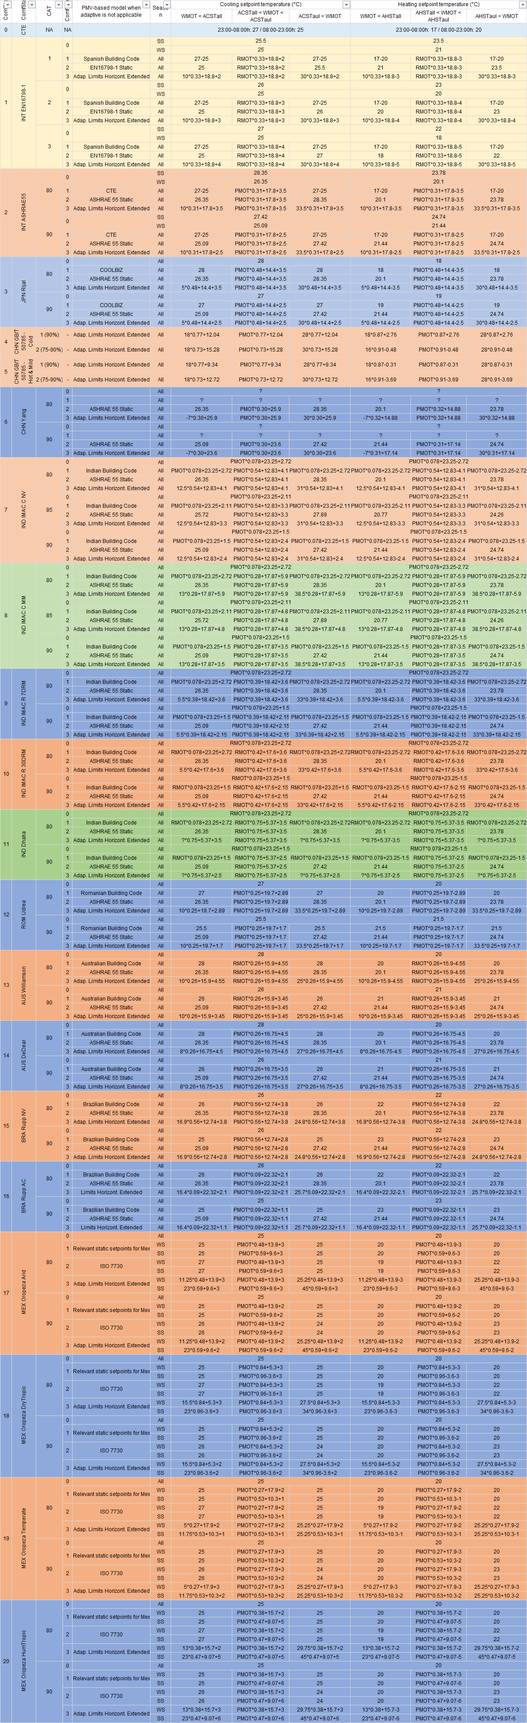
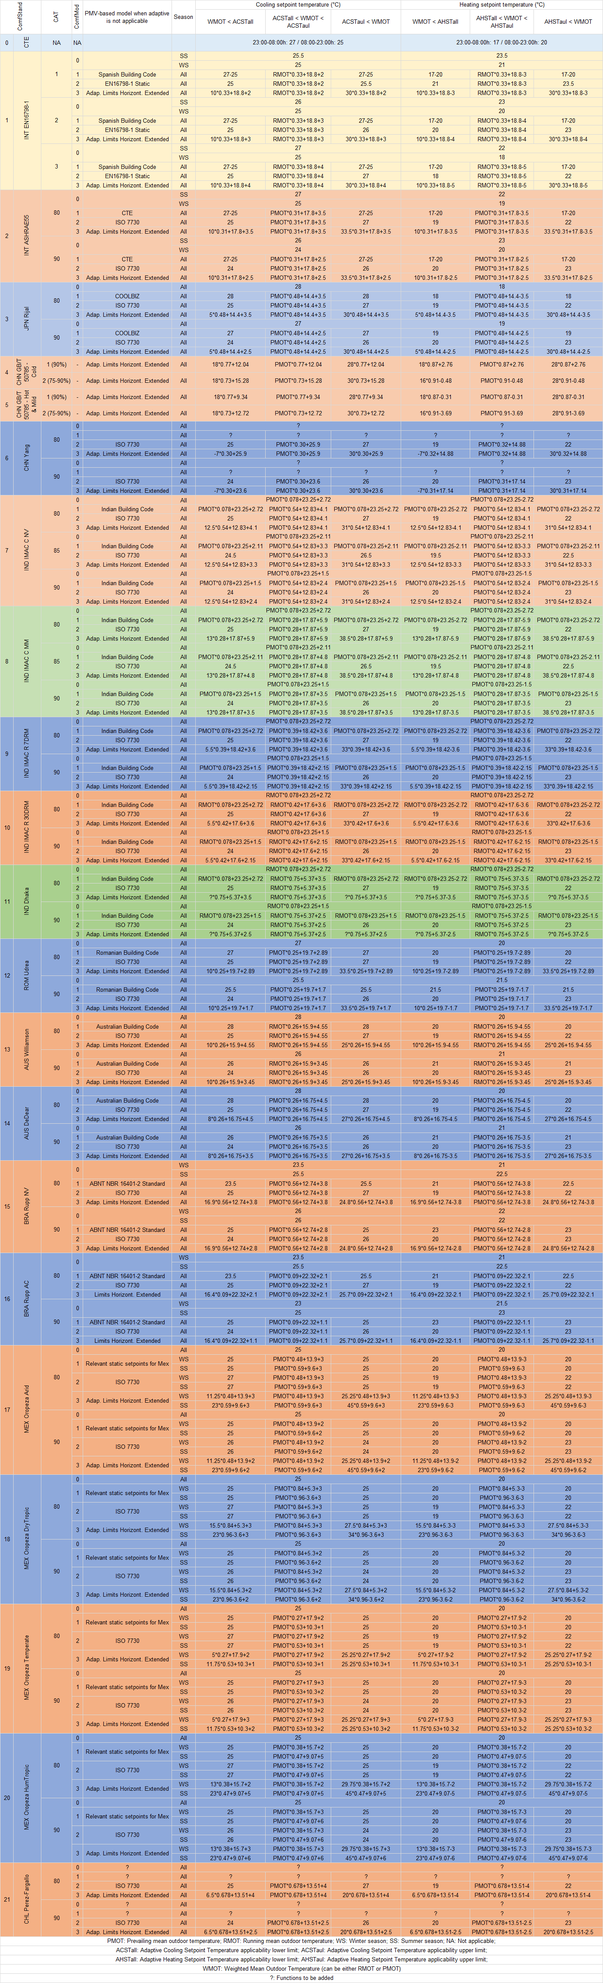
0.4.1 - Doc Updates

diff --git a/setup.py b/setup.py
@@ -79,7 +79,7 @@ with open(path.join(this_directory, 'README.md'), encoding='utf-8') as f:
 
 setuptools.setup(
     name='accim',
-    version='0.4.0',
+    version='0.4.1',
     description='Transforms PMV-based into adaptive setpoint temperature EnergyPlus building energy models',
     long_description=long_description,
     long_description_content_type='text/markdown',

diff --git a/docs/how to use.md b/docs/how to use.md
@@ -101,32 +101,32 @@ Some example of the usage could be:
 If you specify the arguments when you call the function, you need to specify at least: ScriptType, Outputs, EnergyPlus_version, TempCtrl, ComfStand, CAT, ComfMod, HVACmode and VentCtrl. For clarity purposes, it's recommended to specify the argument name as well, as shown above. If you don't specify all aforementioned arguments, you'll be ask to enter them at the prompt command, and these values will be used instead of those specified in the function call.
 Each argument is explained below:
 
-- ComfStand: refers to the thermal comfort standard or model to be applied. Enter any number from 0 to 20 to select the comfort standard or model to be used; you can see which model is each number in the table below. Readthedocs doesn't render it properly, so please take a look at the [Github repository](https://github.com/dsanchez-garcia/accim/blob/master/docs/how%20to%20use.md). For example, if you enter '0 1 2 3', you'll get IDFs for CTE, EN16798-1, ASHRAE 55 and the local model developed by Rijal et al for Japanese dwellings. If you don't enter any number, or if some of the numbers entered are not 0, 1, 2 or 3, it'll ask you to enter the numbers again.
+- ComfStand: refers to the thermal comfort standard or model to be applied. Enter any number from 0 to 21 to select the comfort standard or model to be used; you can see which model is each number in the table below. Readthedocs doesn't render it properly, so please take a look at the [Github repository](https://github.com/dsanchez-garcia/accim/blob/master/docs/how%20to%20use.md). For example, if you enter '0 1 2 3', you'll get IDFs for CTE, EN16798-1, ASHRAE 55 and the local model developed by Rijal et al for Japanese dwellings. If you don't enter any number, or if some of the numbers entered are not 0, 1, 2 or 3, it'll ask you to enter the numbers again.
 
-| ComfStand No. | ComfStand Name        | Area      | Reference                                                                                                                                                                                                                                                                                                                                                                                                                   |   |
-|---------------|-----------------------|-----------|-----------------------------------------------------------------------------------------------------------------------------------------------------------------------------------------------------------------------------------------------------------------------------------------------------------------------------------------------------------------------------------------------------------------------------|---|
-| 0             | CTE                   | Spain     | The Government of Spain. Royal Decree 314/2006. Approving the Spanish   Technical Building Code CTE-DB-HE-1 2013:1–43.   https://www.boe.es/eli/es/rd/2006/03/17/314 (accessed August 6, 2021).                                                                                                                                                                                                                             |   |
-| 1             | EN16798-1             | Europe    | European committee for standardization. EN 16798-1:2019 Energy   performance of buildings. Ventilation for buildings. Indoor environmental   input parameters for design and assessment of energy performance of buildings   addressing indoor air quality, thermal environment, lighting and acoustics.   2019.   https://en.tienda.aenor.com/norma-bsi-bs-en-16798-1-2019-000000000030297474   (accessed August 6, 2021). |   |
-| 2             | ASHRAE 55             | Worldwide | ASHRAE Standard 55-2020 Thermal Environmental Conditions for Human   Occupancy, ASHRAE Standard (2020).                                                                                                                                                                                                                                                                                                                     |   |
-| 3             | JPN·Rijal             | Japan     | Rijal, H. B., Humphreys, M. A., & Nicol, J. F. (2019). Adaptive model   and the adaptive mechanisms for thermal comfort in Japanese dwellings. Energy and Buildings, 202, 109371.   https://doi.org/10.1016/j.enbuild.2019.109371                                                                                                                                                                                           |   |
-| 4             | GBT50785·Cold         | China     | MOHURD, Evaluation Standard for Indoor Thermal Environment in Civil   Buildings (GB/T 50785-2012), Ministry of Housing and Urban-Rural Development   (MOHURD), Beijing, China, 2012.                                                                                                                                                                                                                                        |   |
-| 5             | GBT50785·HotMild      | China     | MOHURD, Evaluation Standard for Indoor Thermal Environment in Civil   Buildings (GB/T 50785-2012), Ministry of Housing and Urban-Rural Development   (MOHURD), Beijing, China, 2012.                                                                                                                                                                                                                                        |   |
-| 6             | CHN·Yang              | China     | Yang, L., Fu, R., He, W., He, Q., & Liu, Y. (2020). Adaptive thermal   comfort and climate responsive building design strategies in dry–hot and   dry–cold areas: Case study in Turpan, China. Energy and   Buildings, 209, 109678. https://doi.org/10.1016/j.enbuild.2019.109678                                                                                                                                           |   |
-| 7             | IMAC·C·NV             | India     | Manu, S., Shukla, Y., Rawal, R., Thomas, L. E., & de Dear, R. (2016).   Field studies of thermal comfort across multiple climate zones for the   subcontinent: India Model for Adaptive Comfort (IMAC). Building   and Environment, 98, 55–70. https://doi.org/10.1016/j.buildenv.2015.12.019                                                                                                                               |   |
-| 8             | IMAC·C·MM             | India     | Manu, S., Shukla, Y., Rawal, R., Thomas, L. E., & de Dear, R. (2016).   Field studies of thermal comfort across multiple climate zones for the   subcontinent: India Model for Adaptive Comfort (IMAC). Building   and Environment, 98, 55–70. https://doi.org/10.1016/j.buildenv.2015.12.019                                                                                                                               |   |
-| 9             | IMAC·R·7DRM           | India     | Rawal, R., Shukla, Y., Vardhan, V., Asrani, S., Schweiker, M., de Dear,   R., Garg, V., Mathur, J., Prakash, S., Diddi, S., Ranjan, S. V., Siddiqui, A.   N., & Somani, G. (2022). Adaptive thermal comfort model based on field   studies in five climate zones across India. Building and   Environment, 219, 109187. https://doi.org/10.1016/J.BUILDENV.2022.109187                                                      |   |
-| 10            | IMAC·R·30DRM          | India     | Rawal, R., Shukla, Y., Vardhan, V., Asrani, S., Schweiker, M., de Dear,   R., Garg, V., Mathur, J., Prakash, S., Diddi, S., Ranjan, S. V., Siddiqui, A.   N., & Somani, G. (2022). Adaptive thermal comfort model based on field   studies in five climate zones across India. Building and   Environment, 219, 109187. https://doi.org/10.1016/J.BUILDENV.2022.109187                                                      |   |
-| 11            | IND·Dhaka             | India     | Dhaka, S., Mathur, J., Brager, G., & Honnekeri, A. (2015). Assessment   of thermal environmental conditions and quantification of thermal adaptation   in naturally ventilated buildings in composite climate of India. Building and Environment, 86, 17–28.   https://doi.org/10.1016/J.BUILDENV.2014.11.024                                                                                                               |   |
-| 12            | ROM·Udrea             | Romania   | Udrea, I., Croitoru, C., Nastase, I., Crutescu, R., & Badescu, V.   (2018). First adaptive thermal comfort equation for naturally ventilated   buildings in Bucharest, Romania. International Journal of   Ventilation, 17(3), 149–165. https://doi.org/10.1080/14733315.2017.1356057                                                                                                                                       |   |
-| 13            | AUS·Williamson        | Australia | Williamson, T., & Daniel, L. (2020). A new adaptive thermal comfort   model for homes in temperate climates of Australia. Energy   and Buildings, 210, 109728. https://doi.org/10.1016/j.enbuild.2019.109728                                                                                                                                                                                                                |   |
-| 14            | AUS·DeDear            | Australia | de Dear, R., Kim, J., & Parkinson, T. (2018). Residential adaptive   comfort in a humid subtropical climate—Sydney Australia. Energy   and Buildings, 158, 1296–1305. https://doi.org/10.1016/j.enbuild.2017.11.028                                                                                                                                                                                                         |   |
-| 15            | BRA·Rupp·NV           | Brazil    | Rupp, R. F., de Dear, R., & Ghisi, E. (2018). Field study of   mixed-mode office buildings in Southern Brazil using an adaptive thermal   comfort framework. Energy and Buildings, 158,   1475–1486. https://doi.org/10.1016/J.ENBUILD.2017.11.047                                                                                                                                                                          |   |
-| 16            | BRA·Rupp·AC           | Brazil    | Rupp, R. F., de Dear, R., & Ghisi, E. (2018). Field study of   mixed-mode office buildings in Southern Brazil using an adaptive thermal   comfort framework. Energy and Buildings, 158,   1475–1486. https://doi.org/10.1016/J.ENBUILD.2017.11.047                                                                                                                                                                          |   |
-| 17            | MEX Oropeza Arid      | Mexico    | I. Oropeza-Perez, A.H. Petzold-Rodriguez, C. Bonilla-Lopez, Adaptive   thermal comfort in the main Mexican climate conditions with and without   passive cooling, Energy and Buildings. 145 (2017) 251–258.   https://doi.org/10.1016/j.enbuild.2017.04.031.                                                                                                                                                                |   |
-| 18            | MEX Oropeza DryTropic | Mexico    | I. Oropeza-Perez, A.H. Petzold-Rodriguez, C. Bonilla-Lopez, Adaptive   thermal comfort in the main Mexican climate conditions with and without   passive cooling, Energy and Buildings. 145 (2017) 251–258.   https://doi.org/10.1016/j.enbuild.2017.04.031.                                                                                                                                                                |   |
-| 19            | MEX Oropeza Temperate | Mexico    | I. Oropeza-Perez, A.H. Petzold-Rodriguez, C. Bonilla-Lopez, Adaptive   thermal comfort in the main Mexican climate conditions with and without   passive cooling, Energy and Buildings. 145 (2017) 251–258.   https://doi.org/10.1016/j.enbuild.2017.04.031.                                                                                                                                                                |   |
-| 20            | MEX Oropeza HumTropic | Mexico    | I. Oropeza-Perez, A.H. Petzold-Rodriguez, C. Bonilla-Lopez, Adaptive   thermal comfort in the main Mexican climate conditions with and without   passive cooling, Energy and Buildings. 145 (2017) 251–258.   https://doi.org/10.1016/j.enbuild.2017.04.031.                                                                                                                                                                |   |                                                                                                   |   |
-
+| ComfStand No. | ComfStand Name        | Area      | Reference                                                                                                                                                                                                                                                                                                                                                                                                                   |
+|---------------|-----------------------|-----------|-----------------------------------------------------------------------------------------------------------------------------------------------------------------------------------------------------------------------------------------------------------------------------------------------------------------------------------------------------------------------------------------------------------------------------|
+| 0             | ESP CTE               | Spain     | The Government of Spain. Royal Decree 314/2006. Approving the Spanish   Technical Building Code CTE-DB-HE-1 2013:1–43.   https://www.boe.es/eli/es/rd/2006/03/17/314 (accessed August 6, 2021).                                                                                                                                                                                                                             |
+| 1             | INT EN16798           | Europe    | European committee for standardization. EN 16798-1:2019 Energy   performance of buildings. Ventilation for buildings. Indoor environmental   input parameters for design and assessment of energy performance of buildings   addressing indoor air quality, thermal environment, lighting and acoustics.   2019.   https://en.tienda.aenor.com/norma-bsi-bs-en-16798-1-2019-000000000030297474   (accessed August 6, 2021). |
+| 2             | INT ASHRAE55          | Worldwide | ASHRAE Standard 55-2020 Thermal Environmental Conditions for Human   Occupancy, ASHRAE Standard (2020).                                                                                                                                                                                                                                                                                                                     |
+| 3             | JPN Rijal             | Japan     | Rijal, H. B., Humphreys, M. A., & Nicol, J. F. (2019). Adaptive model   and the adaptive mechanisms for thermal comfort in Japanese dwellings. Energy and Buildings, 202, 109371.   https://doi.org/10.1016/j.enbuild.2019.109371                                                                                                                                                                                           |
+| 4             | CHN GBT50785 Cold     | China     | MOHURD, Evaluation Standard for Indoor Thermal Environment in Civil   Buildings (GB/T 50785-2012), Ministry of Housing and Urban-Rural Development   (MOHURD), Beijing, China, 2012.                                                                                                                                                                                                                                        |
+| 5             | CHN GBT50785 HotMild  | China     | MOHURD, Evaluation Standard for Indoor Thermal Environment in Civil   Buildings (GB/T 50785-2012), Ministry of Housing and Urban-Rural Development   (MOHURD), Beijing, China, 2012.                                                                                                                                                                                                                                        |
+| 6             | CHN Yang              | China     | Yang, L., Fu, R., He, W., He, Q., & Liu, Y. (2020). Adaptive thermal   comfort and climate responsive building design strategies in dry–hot and   dry–cold areas: Case study in Turpan, China. Energy and   Buildings, 209, 109678. https://doi.org/10.1016/j.enbuild.2019.109678                                                                                                                                           |
+| 7             | IND IMAC C NV         | India     | Manu, S., Shukla, Y., Rawal, R., Thomas, L. E., & de Dear, R. (2016).   Field studies of thermal comfort across multiple climate zones for the   subcontinent: India Model for Adaptive Comfort (IMAC). Building   and Environment, 98, 55–70. https://doi.org/10.1016/j.buildenv.2015.12.019                                                                                                                               |
+| 8             | IND IMAC C MM         | India     | Manu, S., Shukla, Y., Rawal, R., Thomas, L. E., & de Dear, R. (2016).   Field studies of thermal comfort across multiple climate zones for the   subcontinent: India Model for Adaptive Comfort (IMAC). Building   and Environment, 98, 55–70. https://doi.org/10.1016/j.buildenv.2015.12.019                                                                                                                               |
+| 9             | IND IMAC R 7DRM       | India     | Rawal, R., Shukla, Y., Vardhan, V., Asrani, S., Schweiker, M., de Dear,   R., Garg, V., Mathur, J., Prakash, S., Diddi, S., Ranjan, S. V., Siddiqui, A.   N., & Somani, G. (2022). Adaptive thermal comfort model based on field   studies in five climate zones across India. Building and   Environment, 219, 109187. https://doi.org/10.1016/J.BUILDENV.2022.109187                                                      |
+| 10            | IND IMAC R 30DRM      | India     | Rawal, R., Shukla, Y., Vardhan, V., Asrani, S., Schweiker, M., de Dear,   R., Garg, V., Mathur, J., Prakash, S., Diddi, S., Ranjan, S. V., Siddiqui, A.   N., & Somani, G. (2022). Adaptive thermal comfort model based on field   studies in five climate zones across India. Building and   Environment, 219, 109187. https://doi.org/10.1016/J.BUILDENV.2022.109187                                                      |
+| 11            | IND Dhaka             | India     | Dhaka, S., Mathur, J., Brager, G., & Honnekeri, A. (2015). Assessment   of thermal environmental conditions and quantification of thermal adaptation   in naturally ventilated buildings in composite climate of India. Building and Environment, 86, 17–28.   https://doi.org/10.1016/J.BUILDENV.2014.11.024                                                                                                               |
+| 12            | ROM Udrea             | Romania   | Udrea, I., Croitoru, C., Nastase, I., Crutescu, R., & Badescu, V.   (2018). First adaptive thermal comfort equation for naturally ventilated   buildings in Bucharest, Romania. International Journal of   Ventilation, 17(3), 149–165. https://doi.org/10.1080/14733315.2017.1356057                                                                                                                                       |
+| 13            | AUS Williamson        | Australia | Williamson, T., & Daniel, L. (2020). A new adaptive thermal comfort   model for homes in temperate climates of Australia. Energy   and Buildings, 210, 109728. https://doi.org/10.1016/j.enbuild.2019.109728                                                                                                                                                                                                                |
+| 14            | AUS DeDear            | Australia | de Dear, R., Kim, J., & Parkinson, T. (2018). Residential adaptive   comfort in a humid subtropical climate—Sydney Australia. Energy   and Buildings, 158, 1296–1305. https://doi.org/10.1016/j.enbuild.2017.11.028                                                                                                                                                                                                         |
+| 15            | BRA Rupp NV           | Brazil    | Rupp, R. F., de Dear, R., & Ghisi, E. (2018). Field study of   mixed-mode office buildings in Southern Brazil using an adaptive thermal   comfort framework. Energy and Buildings, 158,   1475–1486. https://doi.org/10.1016/J.ENBUILD.2017.11.047                                                                                                                                                                          |
+| 16            | BRA Rupp AC           | Brazil    | Rupp, R. F., de Dear, R., & Ghisi, E. (2018). Field study of   mixed-mode office buildings in Southern Brazil using an adaptive thermal   comfort framework. Energy and Buildings, 158,   1475–1486. https://doi.org/10.1016/J.ENBUILD.2017.11.047                                                                                                                                                                          |
+| 17            | MEX Oropeza Arid      | Mexico    | I. Oropeza-Perez, A.H. Petzold-Rodriguez, C. Bonilla-Lopez, Adaptive   thermal comfort in the main Mexican climate conditions with and without   passive cooling, Energy and Buildings. 145 (2017) 251–258.   https://doi.org/10.1016/j.enbuild.2017.04.031.                                                                                                                                                                |
+| 18            | MEX Oropeza DryTropic | Mexico    | I. Oropeza-Perez, A.H. Petzold-Rodriguez, C. Bonilla-Lopez, Adaptive   thermal comfort in the main Mexican climate conditions with and without   passive cooling, Energy and Buildings. 145 (2017) 251–258.   https://doi.org/10.1016/j.enbuild.2017.04.031.                                                                                                                                                                |
+| 19            | MEX Oropeza Temperate | Mexico    | I. Oropeza-Perez, A.H. Petzold-Rodriguez, C. Bonilla-Lopez, Adaptive   thermal comfort in the main Mexican climate conditions with and without   passive cooling, Energy and Buildings. 145 (2017) 251–258.   https://doi.org/10.1016/j.enbuild.2017.04.031.                                                                                                                                                                |
+| 20            | MEX Oropeza HumTropic | Mexico    | I. Oropeza-Perez, A.H. Petzold-Rodriguez, C. Bonilla-Lopez, Adaptive   thermal comfort in the main Mexican climate conditions with and without   passive cooling, Energy and Buildings. 145 (2017) 251–258.   https://doi.org/10.1016/j.enbuild.2017.04.031.                                                                                                                                                                |
+| 21            | CHL Perez-Fargallo    | Chile     | A. Pérez-Fargallo, J.A. Pulido-Arcas, C. Rubio-Bellido, M. Trebilcock, B.   Piderit, S. Attia, Development of a new adaptive comfort model for low income   housing in the central-south of chile, Energy Build. 178 (2018) 94–106.   https://doi.org/10.1016/j.enbuild.2018.08.030.                                                                                                                                        |
 - CAT: refers to the category of the thermal comfort model applied. Most of the Comfort Standards work with 80 and 90% acceptability levels, except the European EN 16798-1 (works with Categories 1, 2 and 3), the Chinese GB/T 50785 (works with categories 1 and 2), and the India Model for Adaptive Comfort - Commercial (which works with 80, 85 and 90% acceptability levels). So, for example, if you are going to use the EN16798-1 (ComfStand = 1), you can enter '1 2 3' to generate setpoint temperatures for Categories 1, 2 and 3. Or, if you are going to use the IMAC Commercial in naturally ventilated mode (ComfStand = 7), you can enter '80 85 90' to generate setpoint temperatures for these acceptability levels. All categories are referenced in the [full list of setpoint temperatures](https://github.com/dsanchez-garcia/accim/blob/master/docs/images/full_table.png) at the end of this section. Please note that the Category values must be consistent with the Comfort Standard values previously entered. If, for instance, you enter '1' in the Comfort Standard value (means you're asking for EN16798 model), but then enter '80' or '90' in the Category value (which are categories used in ASHRAE55), you won't get the results you want.
 
 - ComfMod: is the Comfort Mode, and refers to the comfort modes used in accim. It controls if the setpoints are PMV-based (when ComfMod = 0) or adaptive (when ComfMod = 1, 2 or 3). When they are adaptive, it also controls the comfort model applied when the adaptive model is not applicable (that is, when the running mean outdoor temperature limits are exceeded), in which case a PMV-based model is applied. Each ComfMod for each ComfStand and CAT is referenced at the [full list of setpoint temperatures](https://github.com/dsanchez-garcia/accim/blob/master/docs/images/full_table.png). Please refer to the research article https://www.mdpi.com/1996-1073/12/8/1498 for more information. Figure below shows the variation of setpoint temperatures when ComfMod 0 (upper left), 1 (upper right), 2 (lower left) and 3 (lower right), when ComfStand is 1 (EN 16798-1, although figure shows the superseded standard, but the setpoint behaviour is similar)
@@ -154,17 +154,17 @@ Each argument is explained below:
 
 So, below you can see a sample name of an IDF created by using accim's VRFsystem functions. The package takes the original IDF file as a reference, saves a copy, run all the functions so that setpoint temperatures are transformed from static to adaptive, an changes its name based on the values previously entered:
 
-__TestModel_onlyGeometryForVRFsystem[CS_EN16798[CA_1[CM_3[HM_2[VC_0[VO_0.0[MT_50.0[MW_50.0[AT_0.1[standard__
+__TestModel_onlyGeometryForVRFsystem[CS_INT EN16798[CA_1[CM_3[HM_2[VC_0[VO_0.0[MT_50.0[MW_50.0[AT_0.1[standard__
 
 where:
 
 - 'TestModel_onlyGeometryForVRFsystem' is the name of the original IDF.
 
-- CS refers to the Comfort Standard, and it's followed by the thermal comfort standard applied (could be 'CTE', 'EN16798', 'ASHRAE55' or 'JPN').
+- CS refers to the Comfort Standard, and it's followed by the thermal comfort standard applied (could be 'ESP CTE', 'INT EN16798', 'INT ASHRAE55', 'JPN Rijal', etc).
 
-- CA refers to the Category, which could be 1, 2 or 3 if CS is EN16798, or 80 or 90 if CS is ASHRAE55.
+- CA refers to the Category, which could be 1, 2 or 3 if CS is EN16798, 80 or 90 if CS is ASHRAE55 or other models, or 80, 85 or 90 in case of the IMAC C.
 
-- CM refers to the Comfort Mode, which could be 0 (Static), 1 (OUT-CTE), 2 (OUT-SEN16798 or OUT-SASHRAE55), OR 3 (OUT-AEN16798 or OUT-AASHRAE55).
+- CM refers to the Comfort Mode, which could be 0 (Static), 1, 2, or 3 (Adaptive modes).
 
 - HM refers to the HVAC Mode, which could be 0 (Full air conditioning), 1 (Naturally ventilated), or 2 (Mixed Mode).
 
@@ -180,7 +180,7 @@ where:
 
 - 'standard' is the suffix, which can be whatever you want. For example, this allows you to make a for loop with 'standard', 'simplified' and 'timestep' and run the simulations with all type of outputs.
 
-If some inputs are not used or don't make sense, you'll be able to se an 'X' in the output IDF file. For example, if you use CTE as Comfort Standard, then the inputs for Category and Comfort Mode (which are only for EN16798-1 and ASHRAE 55) are not used in the process, and the output IDF would contain in its name 'CS_CTE[CA_X[CM_X'. Another similar case occurs if you use Full air-conditioning HVAC Mode (i.e. enter '0' for HVAC Mode), or if you use the 'ex_ac' ScriptType, where the output IDF would contain in its name '[HM_0[VC_X[VO_X[MT_X[MW_X'.
+If some inputs are not used or don't make sense, you'll be able to se an 'X' in the output IDF file. For example, if you use CTE as Comfort Standard, then the inputs for Category and Comfort Mode (which are only for EN16798-1 and ASHRAE 55) are not used in the process, and the output IDF would contain in its name 'CS_ESP CTE[CA_X[CM_X'. Another similar case occurs if you use Full air-conditioning HVAC Mode (i.e. enter '0' for HVAC Mode), or if you use the 'ex_ac' ScriptType, where the output IDF would contain in its name '[HM_0[VC_X[VO_X[MT_X[MW_X'.
 
 ## Full list of setpoint temperatures
 Depending on the arguments ComfStand, CAT and ComfMod, cooling and heating setpoint temperatures will be the following:

diff --git a/docs/examples.md b/docs/examples.md
@@ -80,6 +80,7 @@ Enter the Comfort Standard numbers separated by space (
 18 = MEX Oropeza DryTropic;
 19 = MEX Oropeza Temperate;
 20 = MEX Oropeza HumTropic;
+21 = CHL Perez-Fargallo;
 ): 1 2 7
           Are you sure the numbers are correct? [y or [] / n]: 
 For the comfort standard 1 = INT EN16798, the available categories you can choose are: 
